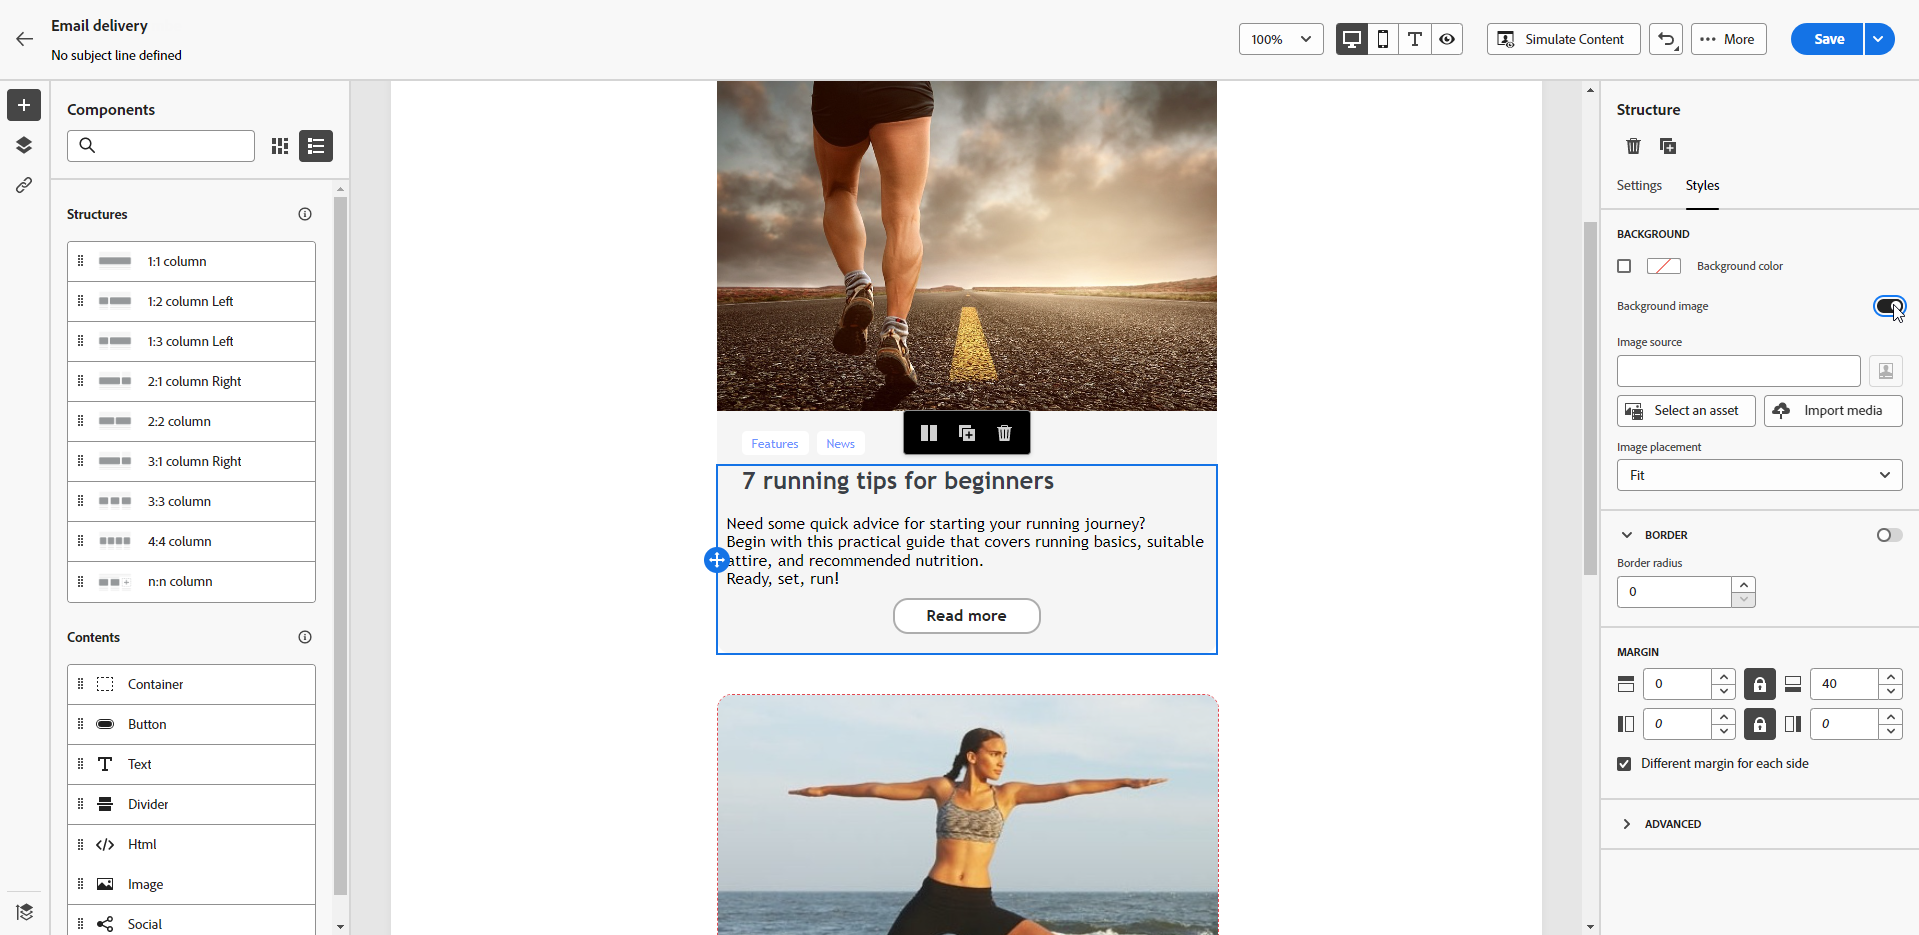
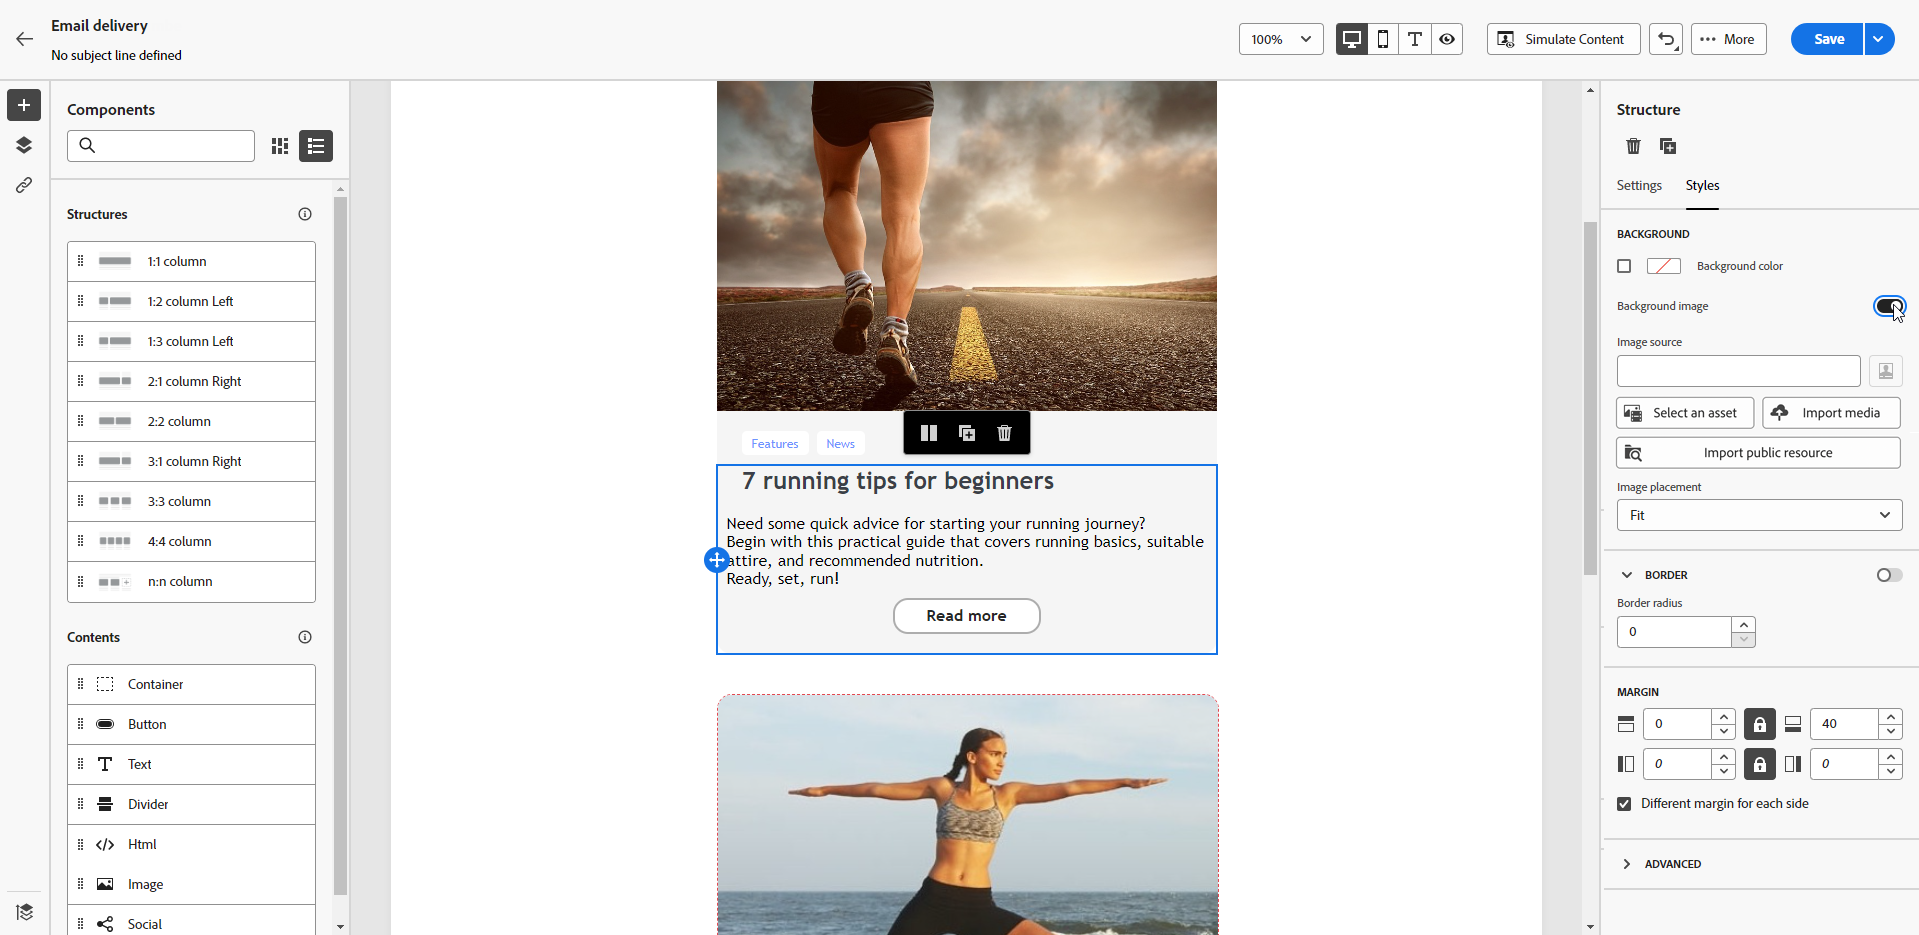
update for 90764

Changed region(s): [[0.8301, 0.4342, 1.0, 0.7444], [0.8301, 0.7754, 0.9531, 0.9305], [0.9838, 0.8064, 1.0, 0.8374]]

diff --git a/help/v8/email/content-components.md b/help/v8/email/content-components.md
@@ -112,7 +112,7 @@ Use the **[!UICONTROL Text]** component to insert text into your email, and adju
     * **[!UICONTROL Create list]**: add bullet or number lists to your text.
     * **[!UICONTROL Set heading]**: add up to six heading levels to your text.
     * **Font size**: select the font size of your text in pixels.
-    * **[!UICONTROL Edit image]**: add an image or an asset to your text component.
+    * **[!UICONTROL Edit image]**: add an image to your text component from your Adobe Experience Manager Assets library, from your computer, or reuse an image available on your Adobe Campaign instance. [Learn more](#image)
     * **[!UICONTROL Show the source code]**: display the source code of your text. It cannot be modified.
     * **[!UICONTROL Duplicate]**: add a copy of your text component.
     * **[!UICONTROL Delete]**: delete the selected text component from your email.
@@ -149,27 +149,53 @@ Use the **[!UICONTROL HTML]** component to copy and paste parts of your existing
 
 ## Image {#image}
 
->[!IMPORTANT]
->
->Access to the Assets menu is limited to users with an active Adobe Experience Manager as a Cloud Service license. If you do not hold this license, the Assets menu will be unavailable.
-
-Use the **[!UICONTROL Image]** component to insert an image file from your computer into your email.
+Use the **[!UICONTROL Image]** component to insert an image into your email.
 
 1. From the **[!UICONTROL Content]** menu, drag and drop **[!UICONTROL Image]** into a **[!UICONTROL Structure]** component.
 
     ![Screenshot showing how to drag and drop an image component in the Email Designer.](assets/email_designer_9.png){zoomable="yes"}
 
-1. Click **[!UICONTROL Browse]** to choose an image file from your assets. You can also choose to **[!UICONTROL Import your media]**.
-
-    To learn more about uploading and adding assets in Adobe Experience Manager, refer to [Adobe Experience Manager as a Cloud Service documentation](https://experienceleague.adobe.com/docs/experience-manager-cloud-service/content/assets/manage/add-assets.html).
+1. Choose one of the following options to add your image:
 
     ![Screenshot showing the browse option for image components in the Email Designer.](assets/email_designer_28.png){zoomable="yes"}
 
-1. Navigate through your folders to locate the specific asset you need, or use the search bar to find it efficiently.
+    +++**[!UICONTROL Browse]**
 
-    Once you've found the asset you're looking for, click **[!UICONTROL Select]**.
+    Choose this option to select an image from your Adobe Experience Manager Assets library.
+
+    >[!IMPORTANT]
+    >
+    >This option requires an active Adobe Experience Manager as a Cloud Service license.
+
+    Navigate through your folders to locate the specific asset you need, or use the search bar to find it efficiently. Once you've found the asset, click **[!UICONTROL Select]**.
 
     ![Screenshot showing the asset selection process in the Email Designer.](assets/email_designer_29.png){zoomable="yes"}
+
+    To learn more about uploading and adding assets in Adobe Experience Manager, refer to [Adobe Experience Manager as a Cloud Service documentation](https://experienceleague.adobe.com/docs/experience-manager-cloud-service/content/assets/manage/add-assets.html).
+
+    +++
+
+    +++**[!UICONTROL Import]**
+
+    Select this option to Upload a new image from your computer. The file is uploaded as a public resource on your Adobe Campaign instance.
+
+    +++
+
+    +++**[!UICONTROL Import public resource]**
+
+    Choose this option to reuse an image already available on your Adobe Campaign instance, such as a file previously uploaded through **[!UICONTROL Import]** or as a public resource from the Client Console.
+
+    ![Screenshot showing the public resource selection process in the Email Designer.](assets/email_designer_30.png){zoomable="yes"}
+
+    Search for the resource by name. You can also use filters and reorganize columns.
+
+    >[!NOTE]
+    >
+    >The security constraints are the same as in the Client Console: you can only select resources you have access to, based on your user rights.
+
+    Select the resource, then click **[!UICONTROL Confirm]**.
+    
+    +++
 
 1. Click your newly added component and set up your image properties using the **[!UICONTROL Settings]** tab:
 

diff --git a/help/v8/email/backgrounds.md b/help/v8/email/backgrounds.md
@@ -25,34 +25,29 @@ Below are the available background settings you can use:
 
 * Set a **[!UICONTROL Background color]** for the whole email. Select the body settings in the navigation tree accessible from the left pane. 
 
-  [Set a background color for the whole email body, accessible via the navigation tree.]  
-  ![](assets/background_1.png){zoomable="yes"}  
+  ![Set a background color for the whole email body, accessible via the navigation tree.](assets/background_1.png){zoomable="yes"}  
 
 * Set the same background color for all structure components by selecting **[!UICONTROL Viewport background color]**. This option allows you to choose a different setting from the background color.
 
-  [Set a uniform background color for all structure components using the viewport background color option.]  
-  ![](assets/background_2.png){zoomable="yes"}  
+  ![Set a uniform background color for all structure components using the viewport background color option.](assets/background_2.png){zoomable="yes"}  
 
 * Set a different background color for each structure component. Select a structure in the navigation tree on the left pane to apply a specific background color only to that structure.
 
-  [Apply unique background colors to individual structure components via the navigation tree.]  
-  ![](assets/background_3.png){zoomable="yes"}  
+  ![Apply unique background colors to individual structure components via the navigation tree.](assets/background_3.png){zoomable="yes"}  
 
   >[!NOTE]
   >Ensure you do not set a viewport background color, as it may hide the structure background colors.  
 
-* Set a **[!UICONTROL Background image]** for the content of a structure component.
+* Set a **[!UICONTROL Background image]** for the content of a structure component. Choose an image using **[!UICONTROL Select an asset]**, **[!UICONTROL Import media]**, or **[!UICONTROL Import public resource]**. [Learn more](content-components.md#image)
 
-  [Add a background image to the content of a specific structure component.]  
-  ![](assets/background_4.png){zoomable="yes"}  
+  ![Add a background image to the content of a specific structure component.](assets/background_4.png){zoomable="yes"}  
 
   >[!NOTE]
   >Some email programs do not support background images. When unsupported, the row background color is used instead. Select an appropriate fallback background color in case the image cannot be displayed.  
 
 * Set a background color at the column level.
 
-  [Apply a background color at the column level for greater flexibility.]  
-  ![](assets/background_5.png){zoomable="yes"}  
+  ![Apply a background color at the column level for greater flexibility.](assets/background_5.png){zoomable="yes"}  
 
   >[!NOTE]
   >This is the most common use case. Adobe recommends setting background colors at the column level, as this provides more flexibility when editing the entire email content.  
